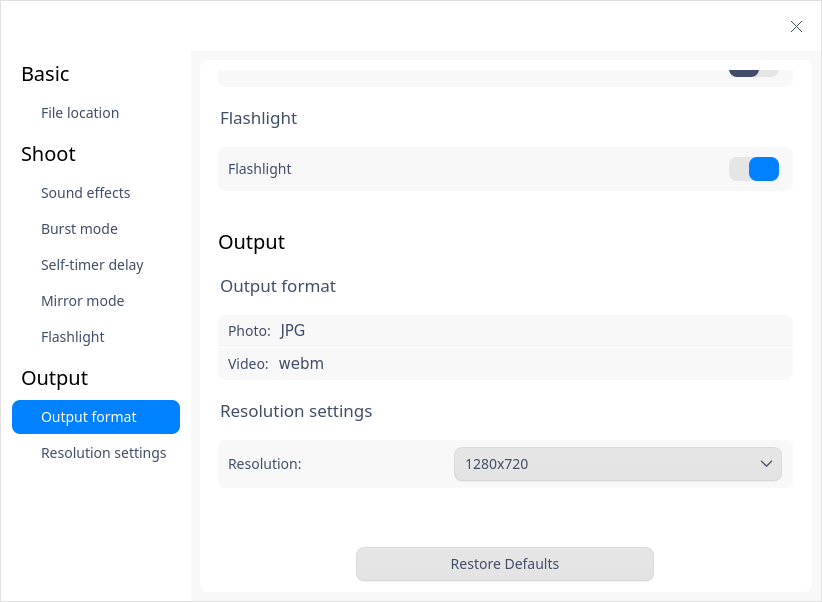
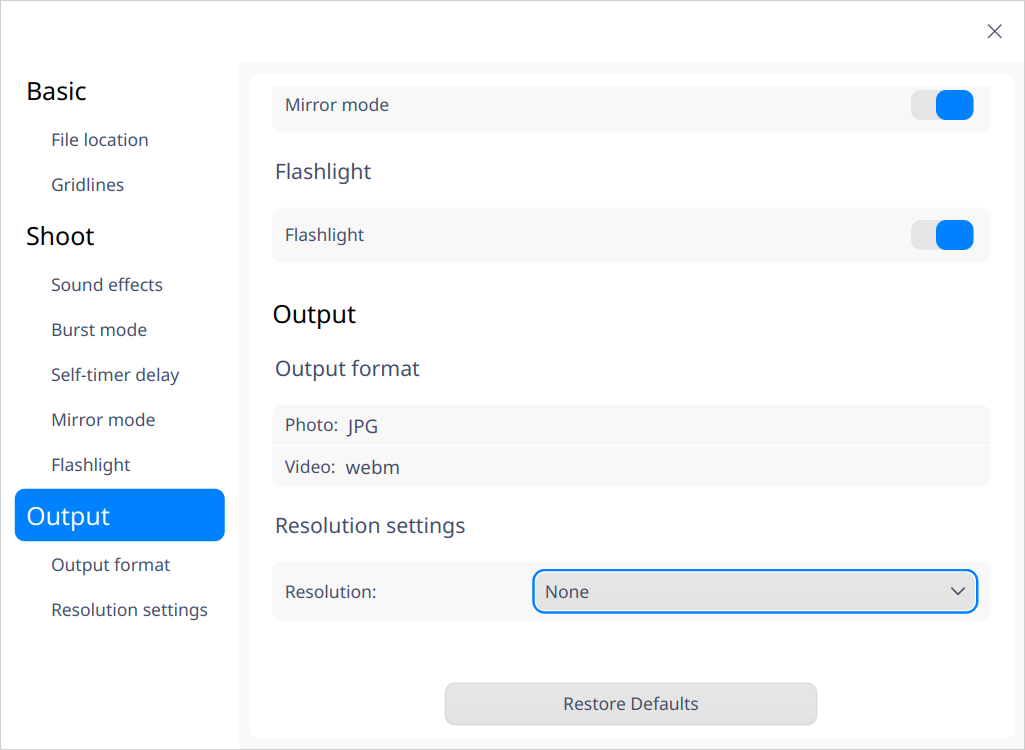
docs: 更新帮助手册
更新帮助手册

Log: 更新帮助手册

diff --git a/src/assets/deepin-camera/camera/zh_HK/camera.md b/src/assets/deepin-camera/camera/zh_HK/camera.md
@@ -11,7 +11,7 @@
 ### 運行相機
 
 1. 單擊任務欄上的啟動器圖標 ![deepin_launcher](../common/deepin_launcher.svg)，進入啟動器界面。
-2. 上下滾動鼠標滾輪瀏覽或通過搜索找到，相機圖標 ![camera](../common/camera.svg)，單擊運行。
+2. 上下滾動鼠標滾輪瀏覽或通過搜索，找到相機圖標 ![camera](../common/camera.svg)，單擊運行。
 3. 右鍵單擊 ![camera](../common/camera.svg)，您可以：
    - 單擊 **傳送到桌面**，在桌面創建快捷方式。
    - 單擊 **傳送到任務欄**，將應用程序固定到任務欄。
@@ -20,8 +20,8 @@
 ### 關閉相機
 
 - 在相機界面單擊 ![close](../common/close.svg)，退出相機。
-- 在任務欄右鍵單擊 ![camera](../common/camera.svg)，選擇 **關閉所有** 來退出相機。
-- 在相機界面，單擊 ![icon_menu](../common/icon_menu.svg)，選擇 **退出** 來退出相機。
+- 在任務欄上右鍵單擊 ![camera](../common/camera.svg)，選擇 **關閉所有**，退出相機。
+- 在相機界面，單擊 ![icon_menu](../common/icon_menu.svg)，選擇 **退出**，退出相機。
 
 ## 圖標介紹
 
@@ -54,12 +54,14 @@
     </tbody>
 </table>
 
-> ![notes](../common/notes.svg)說明：當連接多個鏡頭時，界面上才會顯示切換鏡頭按鈕 ![icon](../common/switch.png)。
+> ![notes](../common/notes.svg) 說明：當連接多個鏡頭時，界面上才會顯示切換鏡頭按鈕 ![icon](../common/switch.png)。
 
 
 ## 操作介紹
 
 使用相機的前提是電腦自帶鏡頭或外接鏡頭。打開相機後，單擊 **拍照** 或 **影片** 切換模式，您還可以在 **設置 > 拍照設置** 中開啟鏡像鏡頭功能，將畫面左右翻轉。
+
+> ![notes](../common/notes.svg) 說明：採用不同的解碼技術，其所支持的功能也會不同，請以實際界面為準。
 
 ### 拍照
 
@@ -78,11 +80,11 @@
 
 在相機主界面，右鍵單擊照片或影片文件，可選擇複製、刪除或打開文件夾。
 
-> ![notes](../common/notes.svg)說明：僅圖片文件支持打印功能，影片文件不會顯示打印按鈕。
-
 - 複製：將選中的照片複製到其他路徑。
 - 刪除：將選中的照片刪除。
 - 打印：將選中的圖片進行打印。單擊 **打印** 後，跳轉到打印預覽界面，您可以進行相關設置後再打印。
+
+   > ![notes](../common/notes.svg) 說明：僅圖片文件支持打印功能，影片文件不會顯示打印按鈕。
 - 打開文件夾：打開照片或影片所在的文件夾。
 
 <img src="fig/right_menu.png" alt="right_menu" style="zoom:80%;" />
@@ -96,16 +98,10 @@
 1. 在相機界面，單擊 ![icon_menu](../common/icon_menu.svg)。
 2. 單擊 **設置**，您可以進行基本設置、拍照設置及輸出設置。
 
-   - 基本設置：設置照片及影片的默認保存路徑。
+   - 基本設置：設置照片和影片的默認存儲路徑，選擇構圖網格的樣式。
    - 拍照設置：設置音效、連拍次數及拍照延時時間，開啟或關閉鏡像鏡頭、閃光燈。
+   - 輸出設置：顯示圖片和影片的輸出格式，設置輸出解像度。
 
-   ![settings](fig/settings.png)
-
-   - 輸出設置：設置照片/影片的輸出格式，還可以設置解像度。
-   
-   ![output_settings](fig/output_settings.png)
-
-&nbsp;&nbsp;&nbsp;&nbsp;&nbsp;&nbsp;&nbsp;&nbsp;&nbsp;&nbsp;&nbsp;&nbsp;&nbsp;
 ### 主題
 
 窗口主題包含淺色主題、深色主題和系統主題。

diff --git a/src/assets/deepin-camera/camera/zh_CN/camera.md b/src/assets/deepin-camera/camera/zh_CN/camera.md
@@ -20,8 +20,8 @@
 ### 关闭相机
 
 - 在相机界面单击 ![close](../common/close.svg)，退出相机。
-- 右键单击任务栏上的 ![camera](../common/camera.svg)，选择 **关闭所有** 来退出相机。
-- 在相机界面单击 ![icon_menu](../common/icon_menu.svg)，选择 **退出** 来退出相机。
+- 在任务栏上右键单击 ![camera](../common/camera.svg)，选择 **关闭所有**，退出相机。
+- 在相机界面单击 ![icon_menu](../common/icon_menu.svg)，选择 **退出**，退出相机。
 
 
 ## 图标介绍
@@ -56,15 +56,15 @@
 </table>
 
 
-
-
-> ![notes](../common/notes.svg)说明：当连接多个摄像头时，界面上才会显示切换摄像头按钮 ![icon](../common/switch.png)。
+> ![notes](../common/notes.svg) 说明：当连接多个摄像头时，界面上才会显示切换摄像头按钮 ![icon](../common/switch.png)。
 
 
 
 ## 操作介绍
 
 使用相机的前提是电脑自带摄像头或外接摄像头。打开相机后，单击 **拍照** 或 **视频** 切换模式，您还可以在 **设置 > 拍照设置** 中开启镜像摄像头功能，将画面左右翻转。
+
+> ![notes](../common/notes.svg) 说明：采用不同的解码技术，其所支持的功能也会不同，请以实际界面为准。
 
 ### 拍照
 
@@ -83,15 +83,13 @@
 
 在相机主界面，右键单击图片/视频文件，可选择复制、删除、打印或打开文件夹。
 
-> ![notes](../common/notes.svg)说明：仅图片文件支持打印功能，视频文件不会显示打印按钮。
+- 复制：将选中的图片/视频复制到其他路径。
+- 删除：将选中的图片/视频删除。
+- 打印：将选中的图片进行打印。单击 **打印** 后，跳转到打印预览界面，您可以进行相关设置后再打印。
 
-复制：将选中的图片/视频复制到其他路径。
+   > ![notes](../common/notes.svg)说明：仅图片文件支持打印功能，视频文件不会显示打印按钮。
 
-删除：将选中的图片/视频删除。
-
-打印：将选中的图片进行打印。单击 **打印** 后，跳转到打印预览界面，您可以进行相关设置后再打印。
-
-打开文件夹：打开图片/视频所在的文件夹。
+- 打开文件夹：打开图片/视频所在的文件夹。
 
 <img src="fig/right_menu.png" alt="right_menu" style="zoom:80%;" />
 
@@ -102,18 +100,12 @@
 ### 设置
 
 1. 在相机界面，单击 ![icon_menu](../common/icon_menu.svg)。
-
 2. 单击 **设置**，您可以进行基本设置、拍照设置及输出设置。
 
-   - 基本设置：设置照片及视频的默认保存路径。
-
+   - 基本设置：设置照片和视频的默认存储路径，选择构图网格的样式。
    - 拍照设置：设置音效、连拍次数及拍照延时时间，开启或关闭镜像摄像头、闪光灯。
+   - 输出设置：显示图片和视频的输出格式，设置输出分辨率。
 
-     ![settings](fig/settings.png)
-
-   - 输出设置：设置图片/视频的输出格式，还可以设置分辨率。
-
-     ![output_settings](fig/output_settings.png)
 
 ### 主题
 

diff --git a/src/assets/deepin-camera/camera/en_US/camera.md b/src/assets/deepin-camera/camera/en_US/camera.md
@@ -61,6 +61,8 @@ You can run, close or create a desktop shortcut for Camera in the following ways
 
 You can use the Camera application if your computer comes with a camera or is connected to a camera. Select the photo or video mode on the Camera interface to take photos and record videos. You can also enable the **Mirror mode** in **Settings > Shoot** to flip the photo horizontally.
 
+> ![notes](../common/notes.svg) Notes: The actual functions supported may differ according to the decoding method adopted.  Please refer to the interface.
+
 ### Take Photos
 
 Photo mode is defaulted when Camera starts up. Click the ![photograph](../common/photograph.png) icon to take photos, and the photos will be displayed on the interface.
@@ -96,10 +98,10 @@ On the main menu, you can change settings for Camera, switch window themes, view
 
 ### Settings
 
-1. On the Camera interface, click ![icon_menu](../common/icon_menu.svg).
+1. Click ![icon_menu](../common/icon_menu.svg) on the Camera interface.
 2. Click **Settings** to adjust **Basic**, **Shoot** and **Output** settings.
 
-   - **Basic** settings: set up the **File location** for photos and videos.
+   - **Basic** settings: set up the **File location** for photos and videos as well as gridlines for photos.
    - **Shoot** settings: set up the **Sound effects**, **Burst mode**, **Self-timer delay**, **Mirror mode** and **Flashlight** options.
 
    - **Output** settings: display the **Output format** and set up **Resolution settings** for photos and videos.
@@ -110,20 +112,20 @@ On the main menu, you can change settings for Camera, switch window themes, view
 
 There are three window themes, namely Light Theme, Dark Theme, and System Theme.
 
-1.  On the Camera interface, click ![icon_menu](../common/icon_menu.svg).
+1.  Click ![icon_menu](../common/icon_menu.svg) on the Camera interface.
 2.  Click **Theme** to select a theme.
 
 ### Help
 
-1.  On the Camera interface, click ![icon_menu](../common/icon_menu.svg).
+1.  Click ![icon_menu](../common/icon_menu.svg) on the Camera interface.
 2.  Click **Help** to view the manual of Camera.
 
 ### About
 
-1.  On the Camera interface, click ![icon_menu](../common/icon_menu.svg).
+1.  Click ![icon_menu](../common/icon_menu.svg) on the Camera interface.
 2.  Click **About** to view the version and introduction of Camera. 
 
 ### Exit
 
-1.   On the Camera interface, click ![icon_menu](../common/icon_menu.svg). 
+1.   Click ![icon_menu](../common/icon_menu.svg) on the Camera interface.
 2.  Click **Exit** to exit Camera.

diff --git a/src/assets/deepin-camera/camera/zh_TW/camera.md b/src/assets/deepin-camera/camera/zh_TW/camera.md
@@ -61,6 +61,8 @@
 
 使用相機的前提是電腦內建攝影機或外接攝影機。打開相機後，單擊 **拍照** 或 **影片** 切換模式，您還可以在 **設定 > 拍照設定** 中開啟鏡像攝影機功能，將畫面左右翻轉。
 
+> ![notes](../common/notes.svg) 說明：採用不同的解碼技術，其所支援的功能也會不同，請以實際介面為準。
+
 ### 拍照
 
 打開相機後，預設進入拍照模式。單擊拍照按鈕 ![photograph](../common/photograph.png)，拍攝的圖片文件會展示在介面。
@@ -96,8 +98,9 @@
 
 1. 在相機界面，單擊 ![icon_menu](../common/icon_menu.svg)。
 2. 單擊 **設定**，您可以進行基本設定、拍照設定及輸出設定。
-   - 基本設定：設定照片及影片的儲存位置。
-   - 拍照設定：設定音效、連拍次數、拍照延時設定、鏡像攝影機、閃光燈。
+   - 基本設定：設定照片及影片的儲存位置，選擇構圖網格樣式。
+   - 拍照設定：設定音效、連拍次數、拍照延時時間、鏡像攝影機、閃光燈。
+
    - 輸出設定：顯示照片/影片的輸出格式，設定輸出解析度。
 
 
